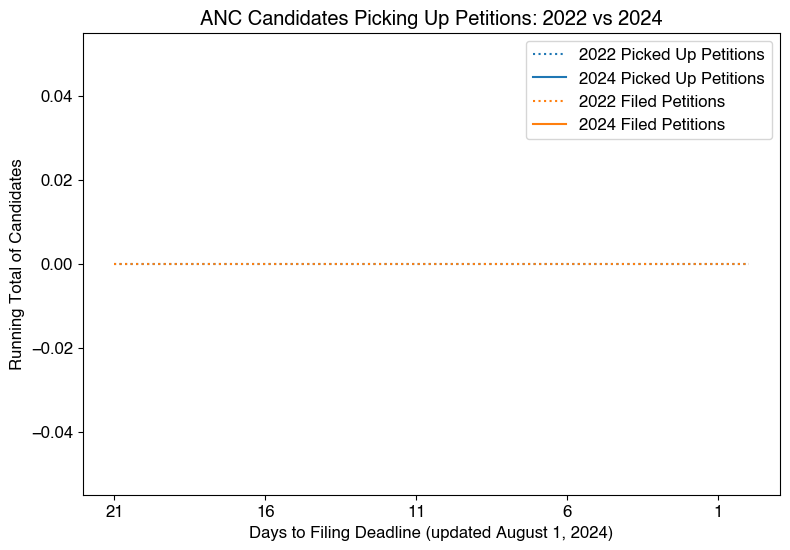
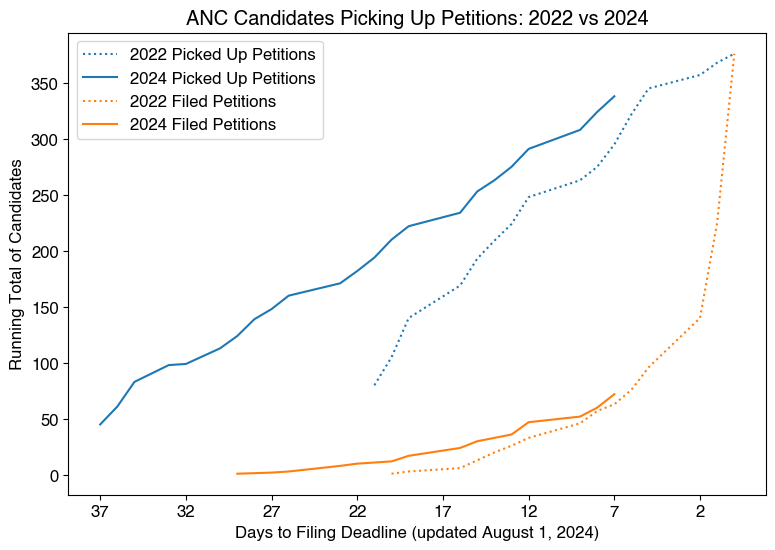
Pickups by Day graph update

diff --git a/docs/counts.html b/docs/counts.html
@@ -845,7 +845,6 @@ REPLACE_WITH_ANC_COUNT
  -->
 <!-- <p>Note that the Single Member Districts 3G01, 3G02, 3G03, and 3G04 are a part of ANC 3G but located in Ward 4. When counting SMDs by ward, these four SMDs are counted in Ward 4.</p> -->
 
-<!-- 
 <h2>Pickups by Day</h2>
 
 <p><em>Some candidates who have filled out the OpenANC Candidate Declaration form have not yet picked up petitions from DCBOE, so they do not have a pickup date yet, and thus the total number of candidates here does not match the actual number of candidates. Excludes withdrawn candidates.</em></p><style type="text/css">
@@ -1119,7 +1118,6 @@ REPLACE_WITH_ANC_COUNT
 </table>
 <p><img src="images/Candidates_Picking_Up_and_Filing.png" alt="Line graph showing candidates picking up and filing petitions comparing 2022 and 2024"></p>
 
- -->
 <h2>Commissioners</h2>
 
 <style type="text/css">

diff --git a/templates/counts.html b/templates/counts.html
@@ -44,12 +44,10 @@ REPLACE_WITH_ANC_COUNT
  -->
 <!-- <p>Note that the Single Member Districts 3G01, 3G02, 3G03, and 3G04 are a part of ANC 3G but located in Ward 4. When counting SMDs by ward, these four SMDs are counted in Ward 4.</p> -->
 
-<!-- 
 <h2>Pickups by Day</h2>
 
 REPLACE_WITH_PICKUPS_BY_DAY
 
- -->
 <h2>Commissioners</h2>
 
 REPLACE_WITH_COMMISSIONER_COUNT

diff --git a/scripts/counts.py b/scripts/counts.py
@@ -1,5 +1,6 @@
 # counts.py
 
+import sys
 import pytz
 import pandas as pd
 from datetime import datetime
@@ -23,6 +24,8 @@ from scripts.data_transformations import (
     )
 
 from scripts.urls import generate_link
+
+from scripts.process_candidates import ProcessCandidates
 
 import config
 
@@ -459,70 +462,55 @@ class Counts():
         comparing the current election year with the previous cycle.
         """
 
+        years = [config.current_election_year - 2, config.current_election_year]
+
+        pc = ProcessCandidates()
+
         # Set the font to Helvetica
         rc('font',**{'family':'sans-serif','sans-serif':['Helvetica']})
-        # prop = fm.FontProperties(fname='templates/WorkSans[wght].ttf')
 
-        pd.set_option('display.max_rows', None)
-        pd.set_option('display.max_columns', None)
-        pd.set_option('display.width', 2000)
-        pd.set_option('display.float_format', '{:20,.2f}'.format)
-        pd.set_option('display.max_colwidth', None)
-
-        candidates = pd.read_csv('data/candidates.csv')
         election_dates = pd.read_csv('data/election_dates.csv')
         election_dates.set_index('election_year', inplace=True)
 
         for c in election_dates.columns:
             election_dates[c] = pd.to_datetime(election_dates[c])
 
-        candidates['pickup_date'] = pd.to_datetime(candidates['pickup_date'])
-        candidates['filed_date'] = pd.to_datetime(candidates['filed_date'])
-        years = [config.current_election_year - 2, config.current_election_year]
+        dcboe_candidate_dict = {}
 
-        pickup_by_day = candidates.groupby('pickup_date').size()
-        filed_by_day = candidates.groupby('filed_date').size()
+        for y in years:
+            dcboe_candidate_dict[y] = pc.read_dcboe_excel('dcboe-ballot-', election_year=y)
 
-        # print(pickup_by_day)
+        dcboe_candidates = pd.concat(dcboe_candidate_dict).reset_index()
+
+        dcboe_candidates['pickup_date'] = pd.to_datetime(dcboe_candidates['pickup_date'])
+        dcboe_candidates['filed_date'] = pd.to_datetime(dcboe_candidates['filed_date'])
+
+        pickup_by_day = dcboe_candidates.groupby('pickup_date').size()
+        filed_by_day = dcboe_candidates.groupby('filed_date').size()
+
         pickup_by_year = {}
         filed_by_year = {}
         for y in years:
             pickup_by_year[y] = pd.DataFrame(pickup_by_day[pickup_by_day.index.year == y], columns=['pickups'])
+            pickup_by_year[y]['days_to_deadline'] = (pickup_by_year[y].index - election_dates.loc[y, 'petition_close_date']).days
+
             filed_by_year[y] = pd.DataFrame(filed_by_day[filed_by_day.index.year == y], columns=['filers'])
+            filed_by_year[y]['days_to_deadline'] = (filed_by_year[y].index - election_dates.loc[y, 'petition_close_date']).days
 
-        # Start with 2020 data and calculate sums
-        comp = pd.DataFrame(
-            index=pd.date_range(
-                start=election_dates.loc[years[0], 'petition_open_date']
-                , end=election_dates.loc[years[0], 'petition_close_date']
-                )
-            )
-        comp = pd.merge(comp, pickup_by_year[years[0]].pickups, how='left', left_index=True, right_index=True)
-        comp = pd.merge(comp, filed_by_year[years[0]].filers, how='left', left_index=True, right_index=True)
-        comp.pickups = comp.pickups.fillna(0)
-        comp.filers = comp.filers.fillna(0)
-        comp[f'cumulative_pickups_{years[0]}'] = comp.pickups.cumsum()
-        comp[f'cumulative_filers_{years[0]}'] = comp.filers.cumsum()
-        comp['days_to_deadline'] = (comp.index - election_dates.loc[years[0], 'petition_close_date']).days
-        comp.drop(columns=['pickups', 'filers'], inplace=True)
 
-        # Join current year data and calculate sums
-        pickup_by_year[years[1]]['days_to_deadline'] = (pickup_by_year[years[1]].index - election_dates.loc[years[0], 'petition_close_date']).days
-        filed_by_year[years[1]]['days_to_deadline'] = (filed_by_year[years[1]].index - election_dates.loc[years[0], 'petition_close_date']).days
+        # Calculate running sums by days to deadline
+        min_days_to_deadline = min([pickup_by_year[y]['days_to_deadline'].min() for y in years])
+        comp = pd.DataFrame(range(min_days_to_deadline, 1), columns=['days_to_deadline'])
 
-        comp = pd.merge(comp, pickup_by_year[years[1]], how='left', on='days_to_deadline')
-        comp = pd.merge(comp, filed_by_year[years[1]], how='left', on='days_to_deadline')
+        for y in years:
+            comp = pd.merge(comp, pickup_by_year[y].rename(columns={'pickups': f'pickups_{y}'}), how='left', on='days_to_deadline')
+            comp[f'cumulative_pickups_{y}'] = comp[f'pickups_{y}'].cumsum()
 
-        comp[f'cumulative_pickups_{years[1]}'] = comp.pickups.cumsum().ffill()
-        comp[f'cumulative_filers_{years[1]}'] = comp.filers.cumsum().ffill()
+            comp = pd.merge(comp, filed_by_year[y].rename(columns={'filers': f'filers_{y}'}), how='left', on='days_to_deadline')
+            comp[f'cumulative_filers_{y}'] = comp[f'filers_{y}'].cumsum()
 
-        # Fill in NULLs where current year dates haven't happened yet
-        comp.loc[
-            comp.days_to_deadline.isin(range(pickup_by_year[years[1]].days_to_deadline.max() + 1, 1))
-            , [f'cumulative_pickups_{years[1]}', f'cumulative_filers_{years[1]}']
-        ] = None
-
-        comp.drop(columns=['pickups', 'filers'], inplace=True)
+        # Fill in the NULLs in the cumsums, connecting the lines in the plot
+        comp.interpolate(limit_area='inside', inplace=True)
 
         rc('font', family='sans-serif')
         rc('font', serif='Helvetica Neue')

diff --git a/scripts/process_candidates.py b/scripts/process_candidates.py
@@ -48,13 +48,13 @@ class ProcessCandidates():
 
 
 
-    def read_dcboe_excel(self, filename_pattern):
+    def read_dcboe_excel(self, filename_pattern, election_year=config.current_election_year):
         """
         Read in Excel file, whether for Ballot candidates or Write-Ins (specified by filename_pattern), and pre-process it.
         """
 
         excel_file_dir = 'data/dcboe/excel-clean/'
-        excel_file = self.most_recent_file(excel_file_dir, filename_pattern)
+        excel_file = self.most_recent_file(excel_file_dir, filename_pattern, election_year=election_year)
         if not excel_file:
             return None
 
@@ -241,7 +241,7 @@ class ProcessCandidates():
 
 
 
-    def most_recent_file(self, directory_name, filename_pattern):
+    def most_recent_file(self, directory_name, filename_pattern, election_year=config.current_election_year):
         """
         Returns the most recent file in a directory. 
         The filenames must have a timestamp in them. It's the max of the sorted text.
@@ -256,13 +256,13 @@ class ProcessCandidates():
             [f for f in os.listdir(directory_name) if (
                 filename_pattern in f
                 and '~' not in f
-                and str(config.current_election_year) in f
+                and str(election_year) in f
                 )
             ]
             )
 
         if len(list_of_files) == 0:
-            print(f'No files match the pattern "{filename_pattern}" in directory "{directory_name}" in the election year {config.current_election_year}.')
+            print(f'No files match the pattern "{filename_pattern}" in directory "{directory_name}" in the election year {election_year}.')
             mrf = None
         else:
             mrf = directory_name + list_of_files[-1]
